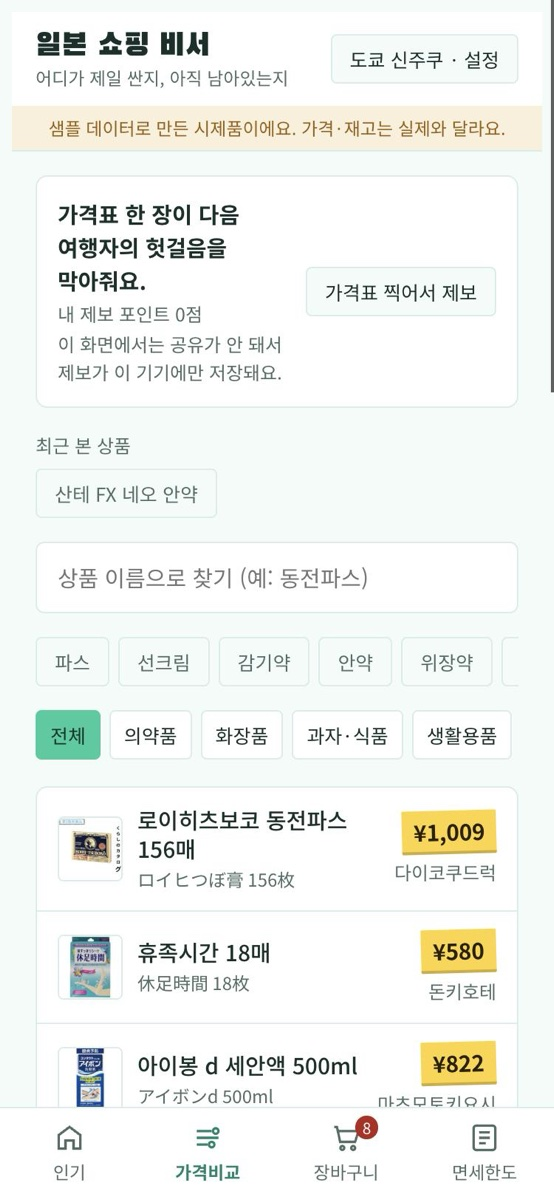
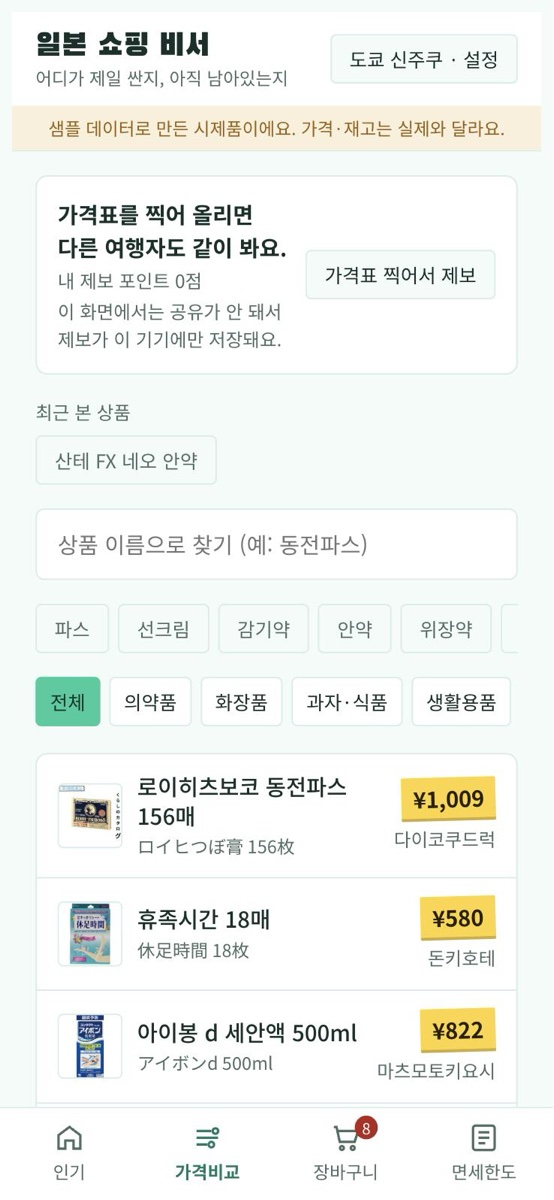
Make four app messages plainer and refresh the compare screenshot

diff --git a/japan-shopping/index.html b/japan-shopping/index.html
@@ -171,11 +171,11 @@ ko:{app:'일본 쇼핑 비서',sub:'어디가 제일 싼지, 아직 남아있는
  have:'있어요',soldout:'품절이에요',reported:'제보 고마워요. 시제품에서는 이 기기에만 저장돼요.',coupon:'쿠폰 {p}% ({min} 이상)',couponAny:'쿠폰 {p}%',
  addList:'장바구니에 담기',added:'장바구니에 담았어요',inList:'장바구니에 {q}개 있어요',
  listTitle:'내 장바구니',listEmpty:'아직 담은 상품이 없어요. 인기나 가격비교 탭에서 담아보세요.',
- planTitle:'추천 쇼핑 동선',planDesc:'품절 제보가 있는 매장은 빼고, 면세 기준과 쿠폰까지 따져서 고른 조합이에요.',
+ planTitle:'추천 쇼핑 동선',planDesc:'품절 제보가 있는 매장은 빼고, 면세와 쿠폰을 계산해서 골랐어요.',
  totalNet:'예상 실결제 (환급 후)',stores:'매장 {n}곳',
  taxfreeOk:'면세 대상',taxfreeNo:'면세 기준 미달',needMore:'¥{need} 더 사면 약 ¥{ref} 환급',refund:'환급 예정 ¥{r}',couponApplied:'쿠폰 -¥{c}',
  altCheap:'각 상품 최저가 매장만 골라 사기',altOne:'한 곳에서 다 사기 ({s})',altNone:'한 곳에서 다 살 수 있는 매장 없음',save:'¥{s} 절약',
- unavailable:'근처에서 구할 수 없음: {names}',done:'구매 완료로 면세한도에 기록',recorded:'면세한도 트래커에 기록했어요',
+ unavailable:'근처에서 구할 수 없음: {names}',done:'구매 완료로 면세한도에 기록',recorded:'면세한도에 기록했어요',
  onlineRef:'온라인 참고가',onlineNote:'야후 쇼핑 {n}곳 중앙값 · {d} 기준 · 배송비 제외, 매장가와 달라요',trackTitle:'입국 면세한도',trackKR:'한국 입국 기준 · 1인 미화 800달러',trackTW:'대만 입국 기준 · 1인 NT$35,000',
  used:'사용',left:'남음',over:'초과',
  alcohol:'술',tobacco:'담배',perfume:'향수',general:'일반 물품',
@@ -192,9 +192,9 @@ ko:{app:'일본 쇼핑 비서',sub:'어디가 제일 싼지, 아직 남아있는
  store:'매장',photo:'가격표 사진 찍기 또는 고르기',photoAgain:'다시 찍기',readTag:'사진에서 읽기',reading:'읽는 중… (10~30초)',stop:'중지',
  noAuto:'이 화면에서는 자동 읽기를 쓸 수 없어요. 직접 입력해 주세요.',product:'상품',choose:'상품 고르기',priceExcl:'세전 가격 (엔)',inclIs:'세금 포함 {p}',stockNow:'지금 재고',
  warnDiff:'평소 가격({p})과 차이가 커요. 숫자를 한 번 더 확인해 주세요.',submitRep:'제보하기',localOnly:'시제품에서는 제보가 이 기기에만 저장돼요.',
- repDone:'제보했어요. +10점',points:'내 제보 포인트 {n}점',snapPitch:'가격표 한 장이 다음 여행자의 헛걸음을 막아줘요.',myPrice:'내 가격 제보 · {a}',
+ repDone:'제보했어요. +10점',points:'내 제보 포인트 {n}점',snapPitch:'가격표를 찍어 올리면 다른 여행자도 같이 봐요.',myPrice:'내 가격 제보 · {a}',
  conf_high:'인식 확실',conf_medium:'인식 보통',conf_low:'인식 불확실',sale:'세일가',
- shareLive:'공유 중 · 여행자 {n}명의 제보가 실시간으로 반영돼요',shareLoading:'다른 여행자 제보를 불러오는 중…',
+ shareLive:'여행자 {n}명의 제보가 바로 보여요',shareLoading:'다른 여행자 제보를 불러오는 중…',
  shareSlow:'다른 여행자 제보를 아직 불러오지 못했어요. 내 제보는 이 기기에 먼저 저장돼요.',shareRO:'보기 권한이라 내 제보는 이 기기에만 저장돼요.',
  shareOff:'이 화면에서는 공유가 안 돼서 제보가 이 기기에만 저장돼요.',sharedOk:'제보했어요. 다른 여행자에게도 보여요. +10점',
  reportedShared:'제보 고마워요. 다른 여행자에게도 보여요.',shareFail:'공유에 실패해서 이 기기에만 저장했어요.',
@@ -210,7 +210,7 @@ zh:{app:'日本購物小幫手',sub:'哪裡最便宜、還有沒有貨',sample:'
  have:'有貨',soldout:'缺貨了',reported:'謝謝回報，原型中只存在這台裝置。',coupon:'優惠券 {p}%（滿{min}）',couponAny:'優惠券 {p}%',
  addList:'加入購物清單',added:'已加入購物清單',inList:'清單裡有{q}個',
  listTitle:'我的購物清單',listEmpty:'還沒有加入商品，到熱門或比價頁加入吧。',
- planTitle:'推薦購物路線',planDesc:'排除有缺貨回報的店家，並考量免稅門檻與優惠券後的組合。',
+ planTitle:'推薦購物路線',planDesc:'排除有缺貨回報的店家，計算免稅與優惠券後挑選。',
  totalNet:'預估實付（退稅後）',stores:'{n}間店',
  taxfreeOk:'可免稅',taxfreeNo:'未達免稅門檻',needMore:'再買¥{need}約可退¥{ref}',refund:'預計退稅 ¥{r}',couponApplied:'優惠券 -¥{c}',
  altCheap:'每樣都去最便宜的店買',altOne:'全部在同一家買（{s}）',altNone:'沒有一家能買齊',save:'省 ¥{s}',
@@ -231,9 +231,9 @@ zh:{app:'日本購物小幫手',sub:'哪裡最便宜、還有沒有貨',sample:'
  store:'店家',photo:'拍攝或選擇價格標籤照片',photoAgain:'重拍',readTag:'從照片讀取',reading:'讀取中…（約10~30秒）',stop:'停止',
  noAuto:'此畫面無法自動讀取，請手動輸入。',product:'商品',choose:'選擇商品',priceExcl:'未稅價格（日圓）',inclIs:'含稅 {p}',stockNow:'目前庫存',
  warnDiff:'與平常價格（{p}）差距大，請再確認一次。',submitRep:'送出回報',localOnly:'原型中回報只存在這台裝置。',
- repDone:'已回報，+10點',points:'我的回報點數 {n}點',snapPitch:'一張價格標籤，能讓下一位旅客少跑一趟。',myPrice:'我的價格回報・{a}',
+ repDone:'已回報，+10點',points:'我的回報點數 {n}點',snapPitch:'拍下價格標籤上傳，其他旅客也看得到。',myPrice:'我的價格回報・{a}',
  conf_high:'辨識清楚',conf_medium:'辨識普通',conf_low:'辨識不確定',sale:'特價',
- shareLive:'共享中・{n}位旅客的回報即時更新',shareLoading:'正在載入其他旅客的回報…',
+ shareLive:'看得到{n}位旅客的回報',shareLoading:'正在載入其他旅客的回報…',
  shareSlow:'還無法載入其他旅客的回報，你的回報先存在這台裝置。',shareRO:'你只有檢視權限，回報只存在這台裝置。',
  shareOff:'此畫面無法共享，回報只存在這台裝置。',sharedOk:'已回報，其他旅客也看得到。+10點',
  reportedShared:'謝謝回報，其他旅客也看得到。',shareFail:'共享失敗，已先存在這台裝置。',
